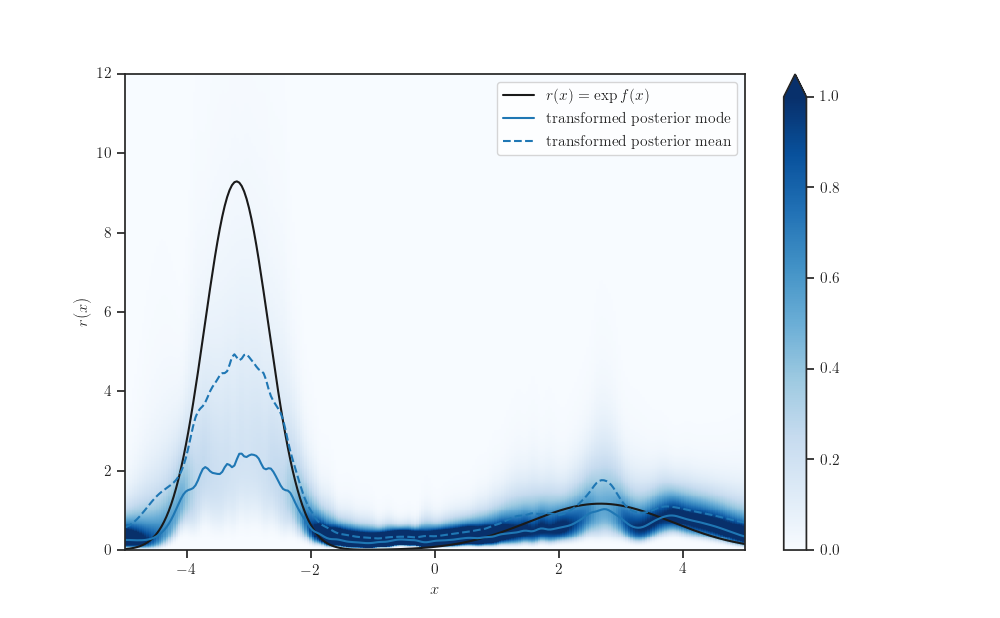
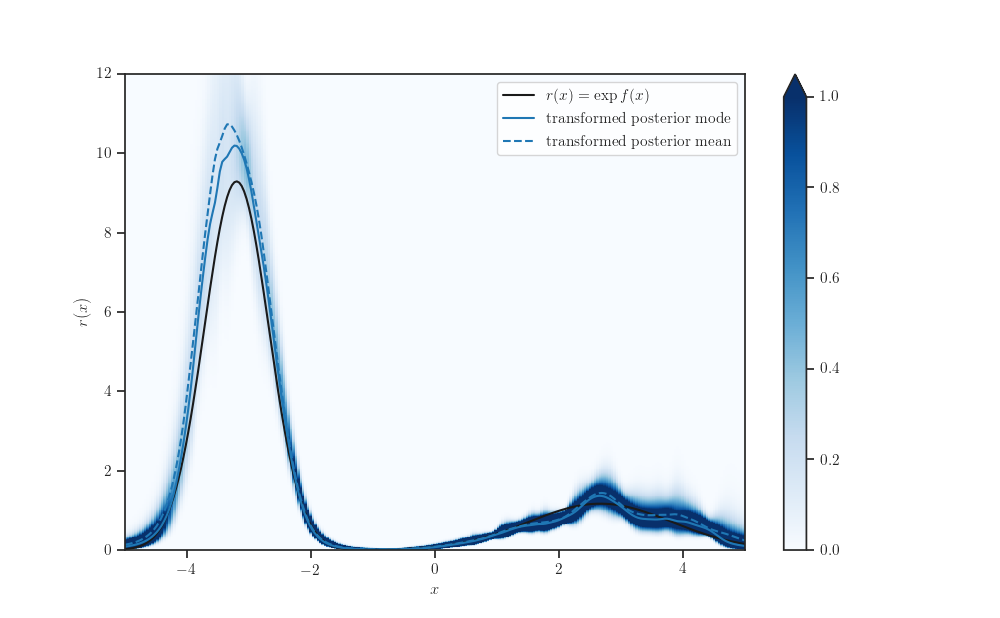
fixed labels

Changed region(s): [[0.124, 0.123, 0.744, 0.8916]]

diff --git a/examples/plot_synthetic_1d_toy_example.py b/examples/plot_synthetic_1d_toy_example.py
@@ -33,7 +33,7 @@ num_test = 40
 num_index_points = 256  # nbr of index points
 num_samples = 25
 
-num_epochs = 80
+num_epochs = 800
 batch_size = 64
 shuffle_buffer_size = 500
 quadrature_size = 20
